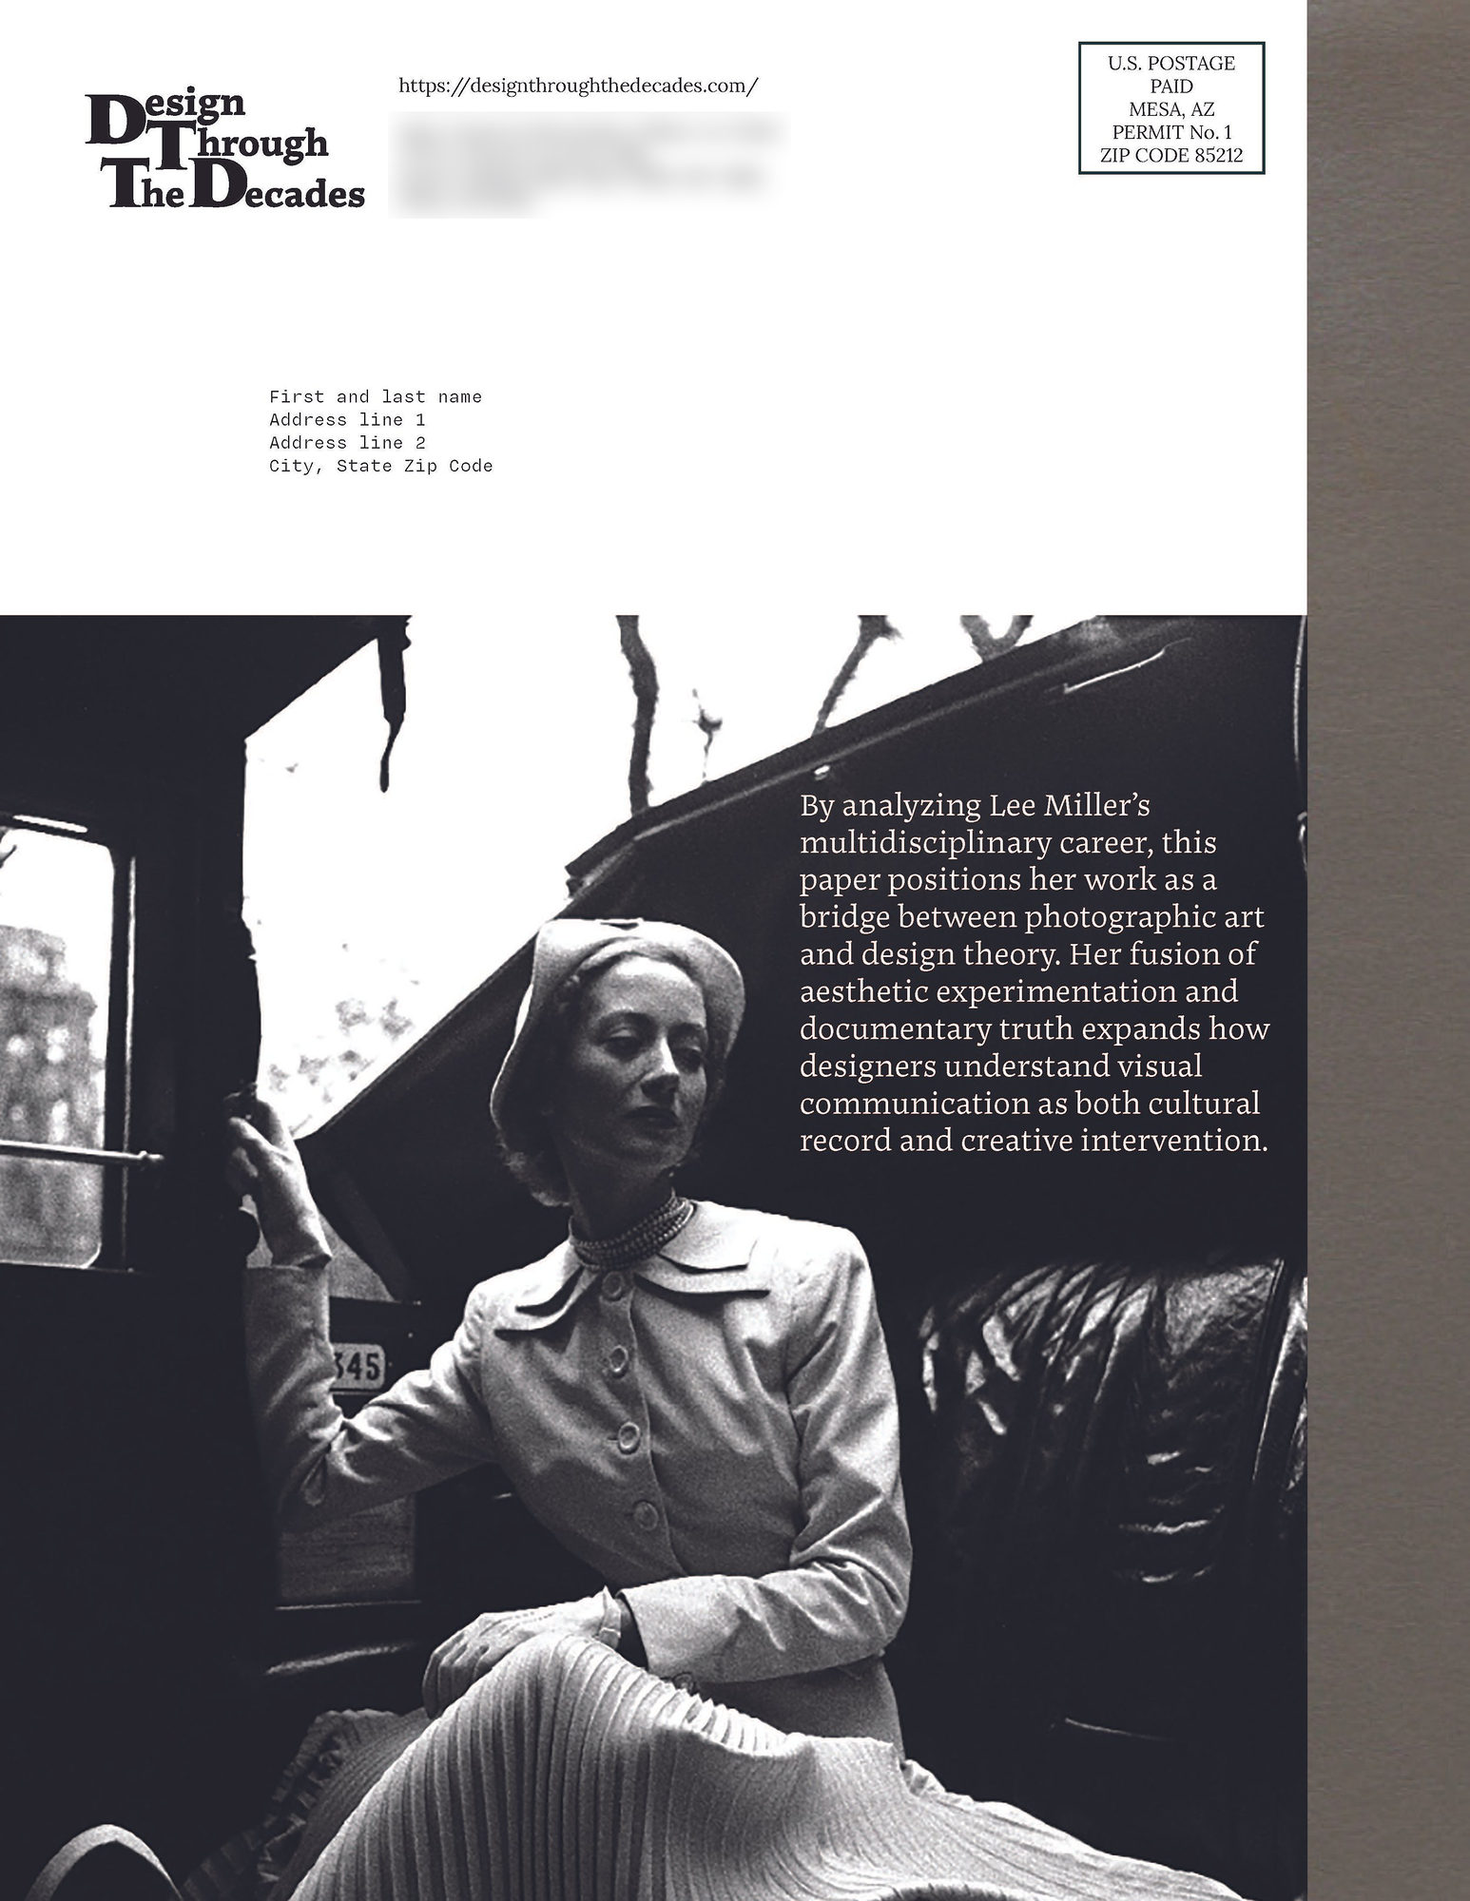
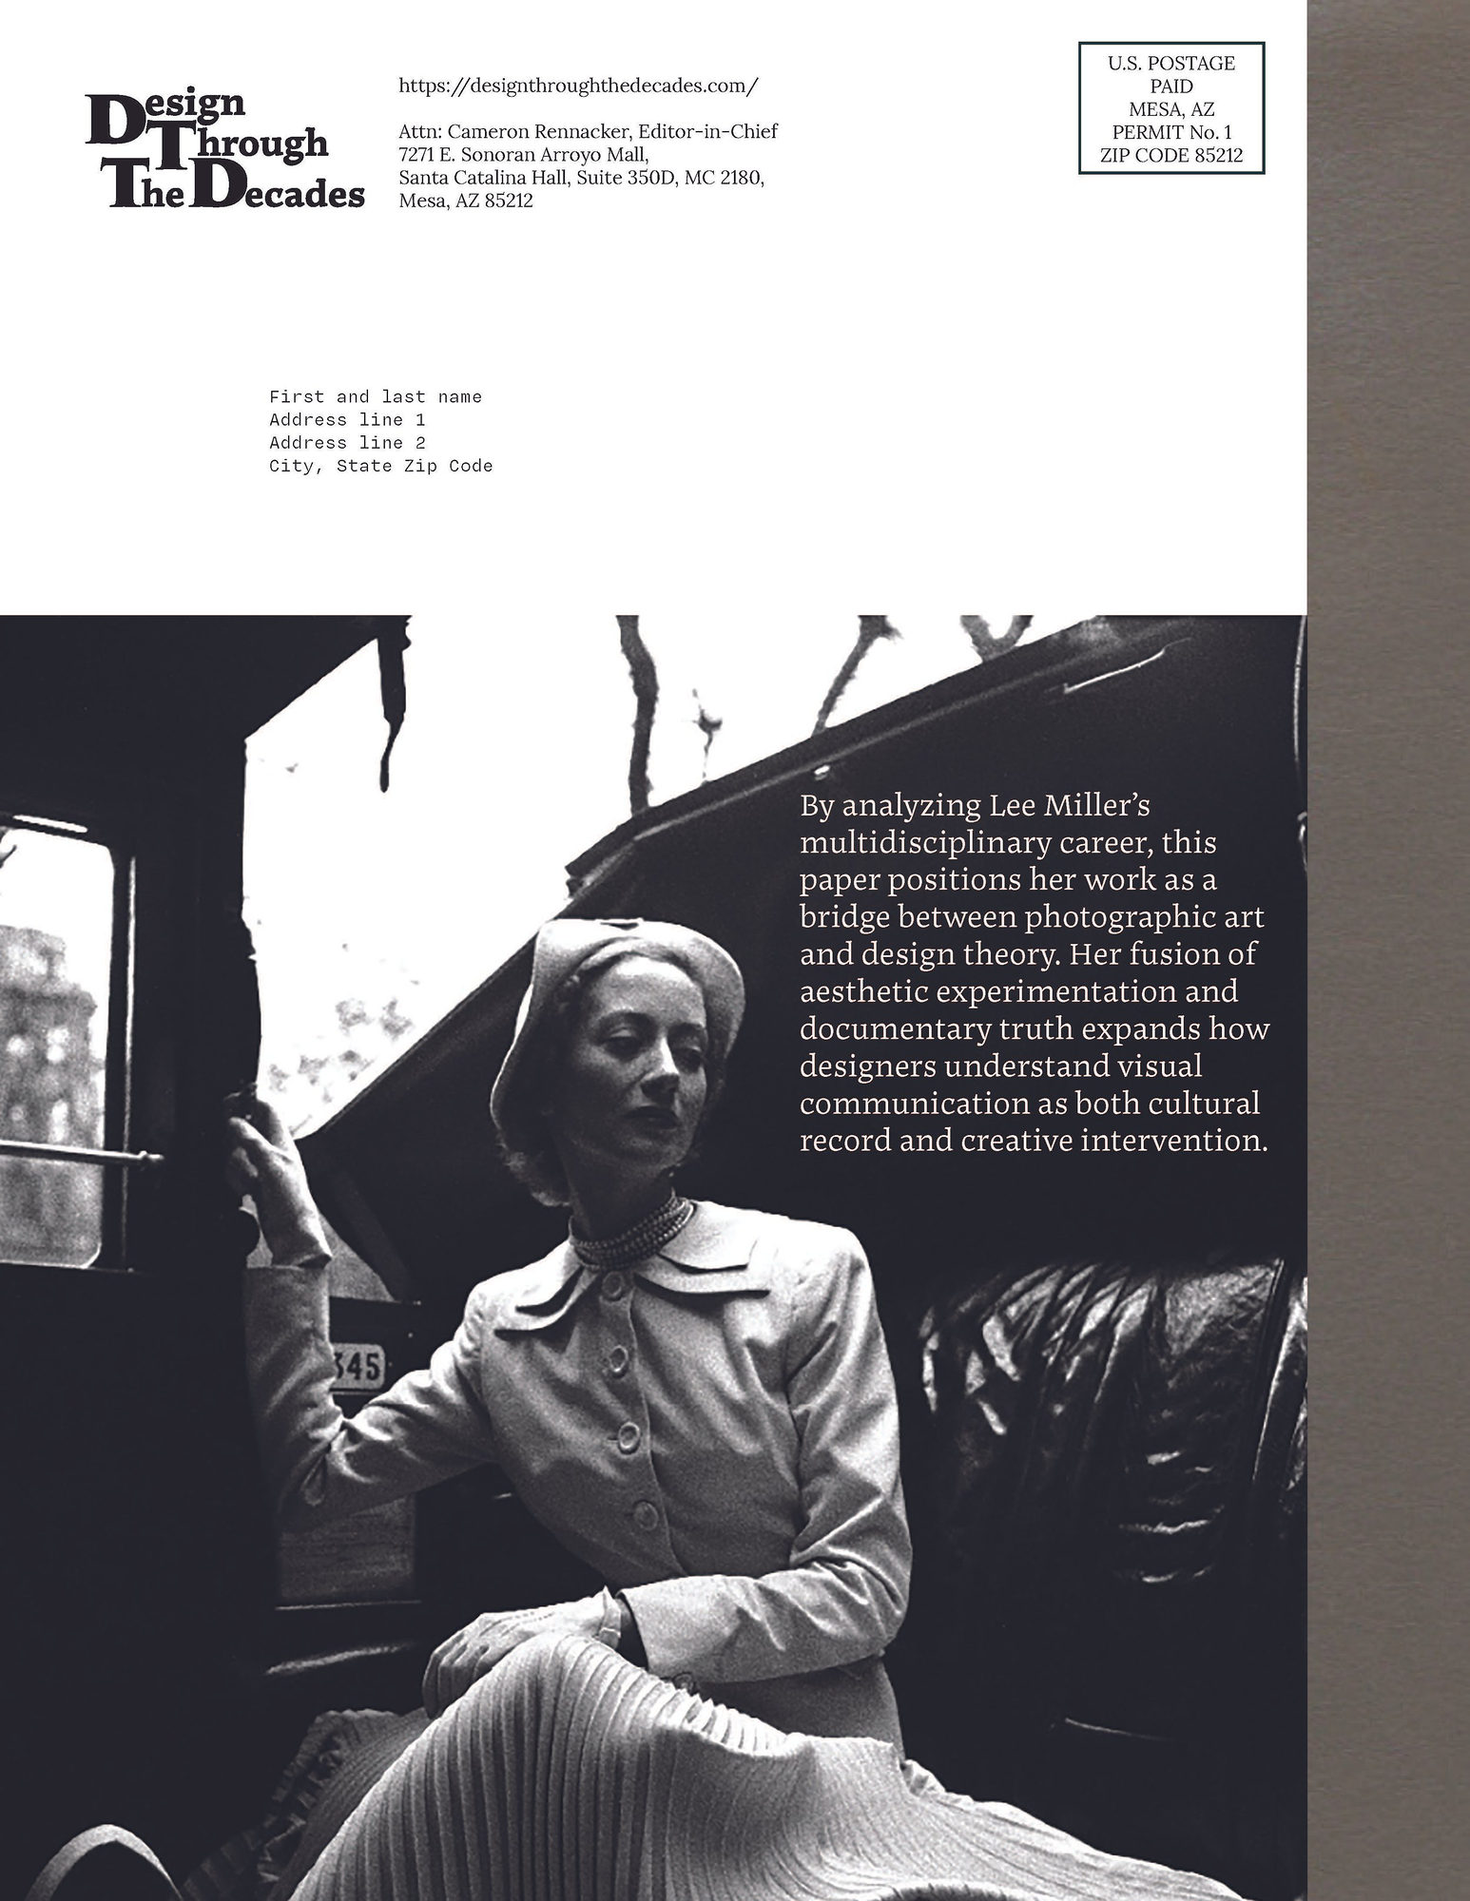
Unblur Lee Miller panel, disable right-click on images

Changed region(s): [[0.2794, 0.062, 0.4657, 0.124], [0.4968, 0.062, 0.5278, 0.093]]

diff --git a/case-studies/lee-miller/index.html b/case-studies/lee-miller/index.html
@@ -16,12 +16,12 @@
 <meta property="og:image" content="https://hernanmendez.com/img/case/lee-miller-spread-1-1200.jpg">
 <meta property="og:image:width" content="1200">
 <meta property="og:image:height" content="777">
-<meta property="og:image:alt" content="Front and back covers of Design Through the Decades. The front cover sets “Lee Miller” and “From Vogue to Dachau: The Many Lives of Lee Miller” over the photograph of Lee Miller in Hitler’s bathtub; the back cover shows the bomb-damaged Burlington Arcade and a mailing panel, its address blurred">
+<meta property="og:image:alt" content="Front and back covers of Design Through the Decades. The front cover sets “Lee Miller” and “From Vogue to Dachau: The Many Lives of Lee Miller” over the photograph of Lee Miller in Hitler’s bathtub; the back cover shows the bomb-damaged Burlington Arcade and a mailing panel">
 <meta name="twitter:card" content="summary_large_image">
 <meta name="twitter:title" content="From Vogue to Dachau: Lee Miller Magazine Design | Hernan Mendez">
 <meta name="twitter:description" content="Case study: an 18-page editorial magazine on photographer Lee Miller, from research and writing to type system, grids and final InDesign build.">
 <meta name="twitter:image" content="https://hernanmendez.com/img/case/lee-miller-spread-1-1200.jpg">
-<meta name="twitter:image:alt" content="Front and back covers of Design Through the Decades. The front cover sets “Lee Miller” and “From Vogue to Dachau: The Many Lives of Lee Miller” over the photograph of Lee Miller in Hitler’s bathtub; the back cover shows the bomb-damaged Burlington Arcade and a mailing panel, its address blurred">
+<meta name="twitter:image:alt" content="Front and back covers of Design Through the Decades. The front cover sets “Lee Miller” and “From Vogue to Dachau: The Many Lives of Lee Miller” over the photograph of Lee Miller in Hitler’s bathtub; the back cover shows the bomb-damaged Burlington Arcade and a mailing panel">
 <meta name="theme-color" content="#f6f4ef">
 <link rel="icon" href="../../favicon-32.png" type="image/png" sizes="32x32">
 <link rel="icon" href="../../favicon.svg" type="image/svg+xml">
@@ -52,7 +52,7 @@
 <p class="byline">Written by Hernan Mendez</p>
 </header>
 <div data-lightbox>
-<figure class="lead-figure"><a class="lb" href="../../img/case/lee-miller-spread-1.jpg" data-caption="Front and back covers of Design Through the Decades. The front cover sets “Lee Miller” and “From Vogue to Dachau: The Many Lives of Lee Miller” over the photograph of Lee Miller in Hitler’s bathtub; the back cover shows the bomb-damaged Burlington Arcade and a mailing panel, its address blurred. Front: David E. Scherman, Lee Miller in Hitler’s bathtub, Munich, 1945, Lee Miller Archives. Back: Lee Miller, Burlington Arcade, London, 1940, Lee Miller Archives."><img src="../../img/case/lee-miller-spread-1-1200.jpg" width="1200" height="777" alt="Front and back covers of Design Through the Decades. The front cover sets “Lee Miller” and “From Vogue to Dachau: The Many Lives of Lee Miller” over the photograph of Lee Miller in Hitler’s bathtub; the back cover shows the bomb-damaged Burlington Arcade and a mailing panel, its address blurred"></a><figcaption><strong>Covers.</strong> Front: David E. Scherman, Lee Miller in Hitler’s bathtub, Munich, 1945, Lee Miller Archives. Back: Lee Miller, Burlington Arcade, London, 1940, Lee Miller Archives.</figcaption></figure>
+<figure class="lead-figure"><a class="lb" href="../../img/case/lee-miller-spread-1.jpg" data-caption="Front and back covers of Design Through the Decades. The front cover sets “Lee Miller” and “From Vogue to Dachau: The Many Lives of Lee Miller” over the photograph of Lee Miller in Hitler’s bathtub; the back cover shows the bomb-damaged Burlington Arcade and a mailing panel. Front: David E. Scherman, Lee Miller in Hitler’s bathtub, Munich, 1945, Lee Miller Archives. Back: Lee Miller, Burlington Arcade, London, 1940, Lee Miller Archives."><img src="../../img/case/lee-miller-spread-1-1200.jpg" width="1200" height="777" alt="Front and back covers of Design Through the Decades. The front cover sets “Lee Miller” and “From Vogue to Dachau: The Many Lives of Lee Miller” over the photograph of Lee Miller in Hitler’s bathtub; the back cover shows the bomb-damaged Burlington Arcade and a mailing panel"></a><figcaption><strong>Covers.</strong> Front: David E. Scherman, Lee Miller in Hitler’s bathtub, Munich, 1945, Lee Miller Archives. Back: Lee Miller, Burlington Arcade, London, 1940, Lee Miller Archives.</figcaption></figure>
 <div class="spreads">
 <figure><a class="lb" href="../../img/case/lee-miller-spread-2.jpg" data-caption="Opening spread: the journal logo, title, byline and editors beside the full-page photograph of Lee Miller in Hitler’s bathtub. Photograph: David E. Scherman, Lee Miller in Hitler’s bathtub, Munich, 1945, Lee Miller Archives."><img src="../../img/case/lee-miller-spread-2-1200.jpg" width="1200" height="777" alt="Opening spread: the journal logo, title, byline and editors beside the full-page photograph of Lee Miller in Hitler’s bathtub"></a><figcaption><strong>Opening spread.</strong> Photograph: David E. Scherman, Lee Miller in Hitler’s bathtub, Munich, 1945, Lee Miller Archives.</figcaption></figure>
 <figure><a class="lb" href="../../img/case/lee-miller-spread-3.jpg" data-caption="Spread with Lee Miller’s self-portraits, a Man Ray portrait of Miller and Pablo Picasso’s Portrait of Lee Miller as L’Arlésienne. Photographs and artwork: Lee Miller Archives, Man Ray and Pablo Picasso, as captioned in the spread."><img src="../../img/case/lee-miller-spread-3-1200.jpg" width="1200" height="777" alt="Spread with Lee Miller’s self-portraits, a Man Ray portrait of Miller and Pablo Picasso’s Portrait of Lee Miller as L’Arlésienne"></a><figcaption><strong>Interior spread.</strong> Photographs and artwork: Lee Miller Archives, Man Ray and Pablo Picasso, as captioned in the spread.</figcaption></figure>
@@ -117,15 +117,15 @@
 <p>Once I selected the strongest structural directions, I expanded the layout exploration into the complete magazine project. This phase included building eight internal spreads, each using a grid suited to the content of that particular section. Some spreads required more room for images, while others needed tighter text organization. By assigning a specific grid to each spread, rather than repeating a single layout, I was able to guide the reader through the article with a controlled rhythm that emphasized key moments while preventing visual fatigue.</p>
 <p>This exploration established the visual framework for the final magazine, connecting the earlier research and typographic work into a complete editorial system.</p>
 <div class="process covers" data-lightbox>
-<figure><a class="lb" href="../../img/case/lee-miller-process-07.jpg" data-caption="Cover concept 1, back: the journal logo and mailing panel, its address blurred, above a fashion photograph of a woman seated in a car, with the article summary. Photographs: Lee Miller Archives and other sources. Cover design: Hernan Mendez."><img src="../../img/case/lee-miller-process-07-sm.jpg" width="618" height="800" alt="Cover concept 1, back: the journal logo and mailing panel, its address blurred, above a fashion photograph of a woman seated in a car, with the article summary" loading="lazy" decoding="async"></a><figcaption>Concept 1, back</figcaption></figure>
+<figure><a class="lb" href="../../img/case/lee-miller-process-07.jpg" data-caption="Cover concept 1, back: the journal logo and mailing panel, above a fashion photograph of a woman seated in a car, with the article summary. Photographs: Lee Miller Archives and other sources. Cover design: Hernan Mendez."><img src="../../img/case/lee-miller-process-07-sm.jpg" width="618" height="800" alt="Cover concept 1, back: the journal logo and mailing panel, above a fashion photograph of a woman seated in a car, with the article summary" loading="lazy" decoding="async"></a><figcaption>Concept 1, back</figcaption></figure>
 <figure><a class="lb" href="../../img/case/lee-miller-process-08.jpg" data-caption="Cover concept 1, front: the journal logo, “Lee Miller” and “From Vogue to Dachau” over a sepia portrait of Lee Miller. Photographs: Lee Miller Archives and other sources. Cover design: Hernan Mendez."><img src="../../img/case/lee-miller-process-08-sm.jpg" width="612" height="792" alt="Cover concept 1, front: the journal logo, “Lee Miller” and “From Vogue to Dachau” over a sepia portrait of Lee Miller" loading="lazy" decoding="async"></a><figcaption>Concept 1, front</figcaption></figure>
-<figure><a class="lb" href="../../img/case/lee-miller-process-09.jpg" data-caption="Cover concept 2, back: mailing panel, its address blurred, above Lee Miller’s war correspondent identity card and fingerprints, with the article summary. Photographs: Lee Miller Archives and other sources. Cover design: Hernan Mendez."><img src="../../img/case/lee-miller-process-09-sm.jpg" width="631" height="800" alt="Cover concept 2, back: mailing panel, its address blurred, above Lee Miller’s war correspondent identity card and fingerprints, with the article summary" loading="lazy" decoding="async"></a><figcaption>Concept 2, back</figcaption></figure>
+<figure><a class="lb" href="../../img/case/lee-miller-process-09.jpg" data-caption="Cover concept 2, back: mailing panel, above Lee Miller’s war correspondent identity card and fingerprints, with the article summary. Photographs: Lee Miller Archives and other sources. Cover design: Hernan Mendez."><img src="../../img/case/lee-miller-process-09-sm.jpg" width="631" height="800" alt="Cover concept 2, back: mailing panel, above Lee Miller’s war correspondent identity card and fingerprints, with the article summary" loading="lazy" decoding="async"></a><figcaption>Concept 2, back</figcaption></figure>
 <figure><a class="lb" href="../../img/case/lee-miller-process-10.jpg" data-caption="Cover concept 2, front: the journal logo and “Lee Miller” over a photograph of the bomb-damaged Burlington Arcade in London. Photographs: Lee Miller Archives and other sources. Cover design: Hernan Mendez."><img src="../../img/case/lee-miller-process-10-sm.jpg" width="618" height="800" alt="Cover concept 2, front: the journal logo and “Lee Miller” over a photograph of the bomb-damaged Burlington Arcade in London" loading="lazy" decoding="async"></a><figcaption>Concept 2, front</figcaption></figure>
-<figure><a class="lb" href="../../img/case/lee-miller-process-11.jpg" data-caption="Cover concept 3, back: mailing panel, its address blurred, above Lee Miller’s identity card and portrait, with the article summary. Photographs: Lee Miller Archives and other sources. Cover design: Hernan Mendez."><img src="../../img/case/lee-miller-process-11-sm.jpg" width="618" height="800" alt="Cover concept 3, back: mailing panel, its address blurred, above Lee Miller’s identity card and portrait, with the article summary" loading="lazy" decoding="async"></a><figcaption>Concept 3, back</figcaption></figure>
+<figure><a class="lb" href="../../img/case/lee-miller-process-11.jpg" data-caption="Cover concept 3, back: mailing panel, above Lee Miller’s identity card and portrait, with the article summary. Photographs: Lee Miller Archives and other sources. Cover design: Hernan Mendez."><img src="../../img/case/lee-miller-process-11-sm.jpg" width="618" height="800" alt="Cover concept 3, back: mailing panel, above Lee Miller’s identity card and portrait, with the article summary" loading="lazy" decoding="async"></a><figcaption>Concept 3, back</figcaption></figure>
 <figure><a class="lb" href="../../img/case/lee-miller-process-12.jpg" data-caption="Cover concept 3, front: the journal logo and “Lee Miller” over the photograph of Lee Miller in Hitler’s bathtub. Photographs: Lee Miller Archives and other sources. Cover design: Hernan Mendez."><img src="../../img/case/lee-miller-process-12-sm.jpg" width="630" height="800" alt="Cover concept 3, front: the journal logo and “Lee Miller” over the photograph of Lee Miller in Hitler’s bathtub" loading="lazy" decoding="async"></a><figcaption>Concept 3, front</figcaption></figure>
-<figure><a class="lb" href="../../img/case/lee-miller-process-13.jpg" data-caption="Cover concept 4, back: mailing panel, its address blurred, above a woman in a suit beneath a bomb-damaged arch, with the article summary. Photographs: Lee Miller Archives and other sources. Cover design: Hernan Mendez."><img src="../../img/case/lee-miller-process-13-sm.jpg" width="548" height="800" alt="Cover concept 4, back: mailing panel, its address blurred, above a woman in a suit beneath a bomb-damaged arch, with the article summary" loading="lazy" decoding="async"></a><figcaption>Concept 4, back</figcaption></figure>
+<figure><a class="lb" href="../../img/case/lee-miller-process-13.jpg" data-caption="Cover concept 4, back: mailing panel, above a woman in a suit beneath a bomb-damaged arch, with the article summary. Photographs: Lee Miller Archives and other sources. Cover design: Hernan Mendez."><img src="../../img/case/lee-miller-process-13-sm.jpg" width="548" height="800" alt="Cover concept 4, back: mailing panel, above a woman in a suit beneath a bomb-damaged arch, with the article summary" loading="lazy" decoding="async"></a><figcaption>Concept 4, back</figcaption></figure>
 <figure><a class="lb" href="../../img/case/lee-miller-process-14.jpg" data-caption="Cover concept 4, front: the journal logo, “Lee Miller” and “From Vogue to Dachau” beside a fashion photograph of a woman seated in a car. Photographs: Lee Miller Archives and other sources. Cover design: Hernan Mendez."><img src="../../img/case/lee-miller-process-14-sm.jpg" width="618" height="800" alt="Cover concept 4, front: the journal logo, “Lee Miller” and “From Vogue to Dachau” beside a fashion photograph of a woman seated in a car" loading="lazy" decoding="async"></a><figcaption>Concept 4, front</figcaption></figure>
-<figure><a class="lb" href="../../img/case/lee-miller-process-15.jpg" data-caption="Cover concept 5, back: mailing panel, its address blurred, above the ruined Burlington Arcade in London, with the article summary. Photographs: Lee Miller Archives and other sources. Cover design: Hernan Mendez."><img src="../../img/case/lee-miller-process-15-sm.jpg" width="618" height="800" alt="Cover concept 5, back: mailing panel, its address blurred, above the ruined Burlington Arcade in London, with the article summary" loading="lazy" decoding="async"></a><figcaption>Concept 5, back</figcaption></figure>
+<figure><a class="lb" href="../../img/case/lee-miller-process-15.jpg" data-caption="Cover concept 5, back: mailing panel, above the ruined Burlington Arcade in London, with the article summary. Photographs: Lee Miller Archives and other sources. Cover design: Hernan Mendez."><img src="../../img/case/lee-miller-process-15-sm.jpg" width="618" height="800" alt="Cover concept 5, back: mailing panel, above the ruined Burlington Arcade in London, with the article summary" loading="lazy" decoding="async"></a><figcaption>Concept 5, back</figcaption></figure>
 <figure><a class="lb" href="../../img/case/lee-miller-process-16.jpg" data-caption="Cover concept 5, front: the journal logo and “Lee Miller” over Elizabeth Cowell in a Digby Morton suit beneath a bomb-damaged arch. Photographs: Lee Miller Archives and other sources. Cover design: Hernan Mendez."><img src="../../img/case/lee-miller-process-16-sm.jpg" width="618" height="800" alt="Cover concept 5, front: the journal logo and “Lee Miller” over Elizabeth Cowell in a Digby Morton suit beneath a bomb-damaged arch" loading="lazy" decoding="async"></a><figcaption>Concept 5, front</figcaption></figure>
 <p class="process-note">The five front and back cover concepts, back cover first. Photographs: Lee Miller Archives and other sources. Cover design: Hernan Mendez.</p>
 </div>

diff --git a/js/site.js b/js/site.js
@@ -2,6 +2,14 @@
   'use strict';
   document.documentElement.classList.add('js');
 
+  // Right-click and drag are switched off on images (Hernan, Nov 6). A deterrent only: it doesn't stop screenshots.
+  document.addEventListener('contextmenu', function (e) {
+    if (e.target.closest && e.target.closest('img, a.lb')) e.preventDefault();
+  });
+  document.addEventListener('dragstart', function (e) {
+    if (e.target.tagName === 'IMG') e.preventDefault();
+  });
+
   // Email: assembled here so the address never appears as plain text in the HTML.
   var addr = ['booking', ['arrecifephotography', 'com'].join('.')].join('@');
   document.querySelectorAll('.js-email').forEach(function (a) {

diff --git a/css/style.css b/css/style.css
@@ -5,6 +5,8 @@
 html{-webkit-text-size-adjust:100%}
 body{margin:0;background:var(--bg);color:var(--ink);font:400 17px/1.65 var(--sans)}
 img{max-width:100%;height:auto}
+/* discourage saving photos: no drag-to-desktop, no long-press save menu on iPhone */
+img{-webkit-user-drag:none;user-select:none;-webkit-user-select:none;-webkit-touch-callout:none}
 a{color:inherit;text-underline-offset:.18em;text-decoration-thickness:1px}
 a:hover{text-decoration-thickness:2px}
 :focus-visible{outline:2px solid var(--ink);outline-offset:3px}
